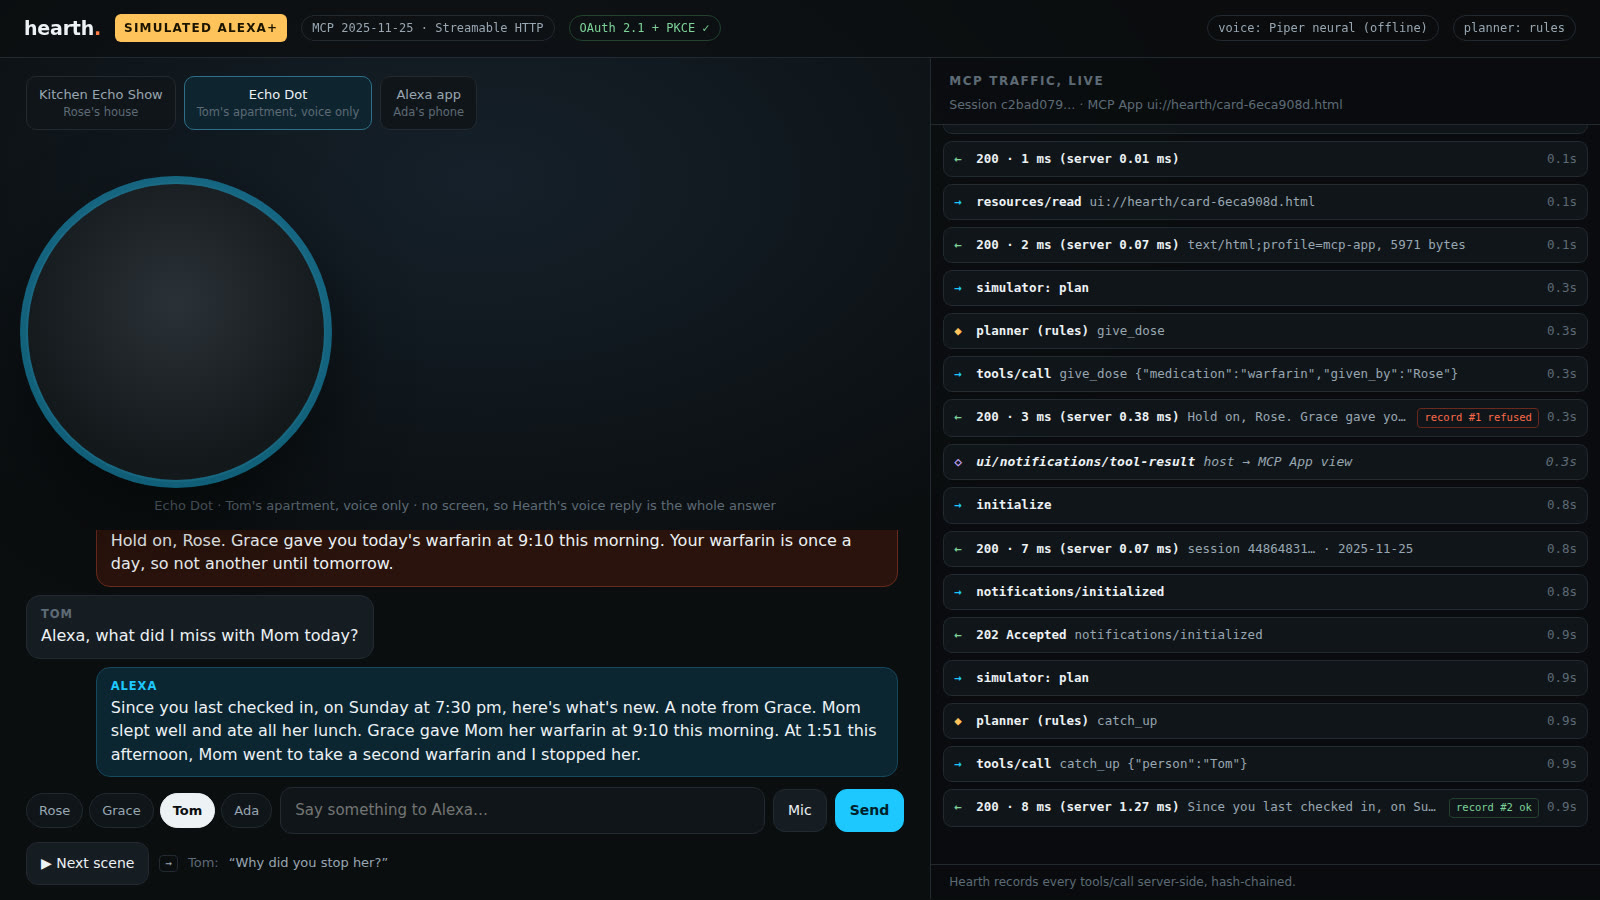
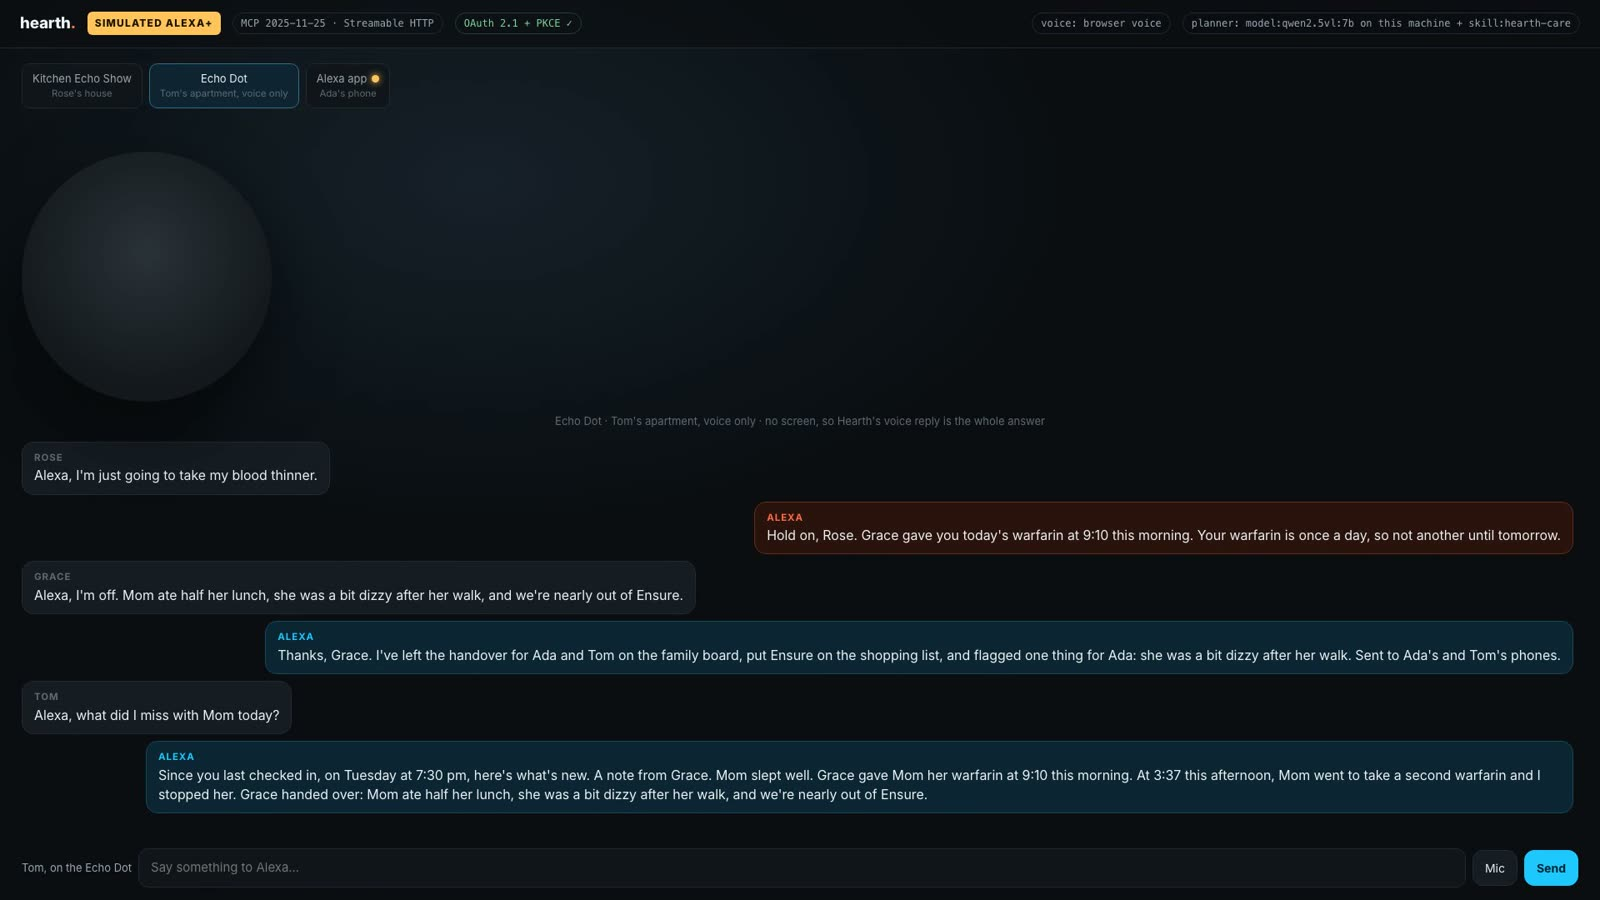
video: transcript and captions from each take, fresh images from take 4
film.py writes transcript.md and captions.srt; rough_cut.py maps the lines
onto the cut as hearth-demo.srt for the upload. The README images and the
transcript now show the current lines and the model planning. The old
offline audio (voice.py, hold-on-rose.m4a and .srt) is removed: its lines
were out of date and film.py replaces it.

diff --git a/demo/rough_cut.py b/demo/rough_cut.py
@@ -19,7 +19,7 @@ Inserts (real footage, any format ffmpeg reads; drop them in and run again):
   n-traffic.m4a, n-tech.m4a, n-close.m4a, n-oncam.m4a
                narration in a real voice (else: macOS `say`, voice Daniel)
 
-Writes <take>/hearth-demo.mp4 and <take>/cut.json (each segment, its source,
+Writes <take>/hearth-demo.mp4, hearth-demo.srt (captions for the upload) and <take>/cut.json (each segment, its source,
 its length, and whether it is still a placeholder). macOS only (`say`); needs
 ffmpeg and playwright.
 """
@@ -32,6 +32,7 @@ import sys
 from urllib.parse import urlencode
 
 HERE = pathlib.Path(__file__).resolve().parent
+sys.path.insert(0, str(HERE))
 W, H, FPS = 1920, 1080, 30
 ENC = ["-c:v", "libx264", "-preset", "medium", "-crf", "20", "-pix_fmt", "yuv420p",
        "-r", str(FPS), "-c:a", "aac", "-b:a", "160k", "-ar", "48000", "-ac", "2"]
@@ -185,6 +186,27 @@ class Cut:
                     "-map", a if narr else "0:a"]
         run(cmd + ENC + [str(out)])
         self.add(name, out, "sim-run.mp4", False)
+        if self.parts and self.parts[-1][1]["segment"] == name:
+            self.parts[-1][1]["take_span"] = [round(start, 3), round(end, 3)]
+
+    def captions(self, recs):
+        """hearth-demo.srt: every spoken line of the take, at its time in the cut."""
+        from film import _stamp
+        ev = json.loads((self.take / "timeline.json").read_text())["events"]
+        lines = [e for e in ev if e["kind"] == "line"]
+        out, at, n = [], 0.0, 0
+        for r in recs:
+            if "take_span" in r:
+                a, b = r["take_span"]
+                for e in lines:
+                    if a <= e["at"] < b:
+                        t = at + e["at"] - a
+                        end = min(at + r["seconds"], t + e["seconds"])
+                        n += 1
+                        out += [str(n), f"{_stamp(t, True)} --> {_stamp(end, True)}",
+                                f"{e['who']}: {e['text']}", ""]
+            at += r["seconds"]
+        (self.take / "hearth-demo.srt").write_text("\n".join(out))
 
     def finish(self) -> pathlib.Path:
         lst = self.work / "list.txt"
@@ -194,6 +216,7 @@ class Cut:
              "-i", str(lst), "-c", "copy", "-movflags", "+faststart", str(final)])
         recs = [r for _, r in self.parts]
         total = duration(final)
+        self.captions(recs)
         (self.take / "cut.json").write_text(json.dumps(
             {"total_seconds": round(total, 2), "segments": recs}, indent=1))
         return final

diff --git a/demo/film.py b/demo/film.py
@@ -13,6 +13,7 @@ next scene. Every answer is whatever Hearth returned on this run.
                          replaced by real people (the script says who)
   <out>/timeline.json    when each line starts in screen.webm, who said it, the text
   <out>/sim-run.mp4      the screen with every line mixed in at its time
+  <out>/transcript.md    who said what, when; captions.srt for the upload
 
     export HEARTH_TZ=<a zone where it is now mid-afternoon> HEARTH_ISSUER=http://localhost:8000
     export HEARTH_SIM_LLM_PROVIDER=openai HEARTH_SIM_LLM_BASE_URL=http://localhost:11434/v1
@@ -149,12 +150,41 @@ async def main(base: str, out: str, voices: str | None = None):
     with open(os.path.join(out, "timeline.json"), "w") as f:
         json.dump({"base": base, "events": events}, f, indent=1)
     mix(out, events)
+    write_transcript(out, events, planner)
     if errors:
         raise SystemExit(f"page errors: {errors}")
     for e in events:
         if e["kind"] == "line":
             print(f"{e['at']:7.2f}s {e['who']:5} {e['text'][:110]}")
     print(f"\n{out}/sim-run.mp4  ({planner})")
+
+
+def _stamp(t: float, srt=False) -> str:
+    m, sec = divmod(max(0.0, t), 60)
+    if srt:
+        h, m = divmod(int(m), 60)
+        return f"{h:02d}:{m:02d}:{int(sec):02d},{int((sec % 1) * 1000):03d}"
+    return f"{int(m)}:{sec:04.1f}"
+
+
+def write_transcript(out: str, events: list, planner: str):
+    """transcript.md (who said what, when) and captions.srt for the upload."""
+    lines = [e for e in events if e["kind"] == "line"]
+    t0 = next(e["at"] for e in events if e["kind"] == "ready")
+    md = ["# Hold on, Rose: the filmed afternoon", "",
+          "Recorded by `demo/film.py` on the simulated Alexa+ client "
+          f"(`/alexa?film=1`), {planner}. Every **Alexa** line is the text "
+          "Hearth's tools returned on this run, over the real MCP endpoint. "
+          "Times are from the start of the take.", ""]
+    md += [f"- `{_stamp(e['at'] - t0)}` **{e['who']}**: {e['text']}" for e in lines]
+    with open(os.path.join(out, "transcript.md"), "w") as f:
+        f.write("\n".join(md) + "\n")
+    srt = []
+    for i, e in enumerate(lines, 1):
+        srt += [str(i), f"{_stamp(e['at'], True)} --> {_stamp(e['at'] + e['seconds'], True)}",
+                f"{e['who']}: {e['text']}", ""]
+    with open(os.path.join(out, "captions.srt"), "w") as f:
+        f.write("\n".join(srt))
 
 
 def mix(out: str, events: list):

diff --git a/demo/transcript.md b/demo/transcript.md
@@ -1,22 +1,18 @@
-# Hold on, Rose
+# Hold on, Rose: the filmed afternoon
 
-The scenes from the simulated Alexa+ client, rendered offline by `demo/voice.py`. Every **Alexa** line is the text Hearth's tools returned for that request, over the real MCP endpoint. Voices: Piper, offline.
+Recorded by `demo/film.py` on the simulated Alexa+ client (`/alexa?film=1`), planner: model:qwen2.5vl:7b on this machine + skill:hearth-care. Every **Alexa** line is the text Hearth's tools returned on this run, over the real MCP endpoint. Times are from the start of the take.
 
-- `0:00.0` **Rose**: Alexa, I'm just going to take my blood thinner.
-- `0:03.2` **Alexa**: Hold on, Rose. Grace gave you today's warfarin at 9:10 this morning. Your warfarin is once a day, so not another until tomorrow.
-- `0:13.7` **Tom**: Alexa, what did I miss with Mom today?
-- `0:16.3` **Alexa**: Since you last checked in, on Sunday at 7:30 pm, here's what's new. A note from Grace. Mom slept well and ate all her lunch. Grace gave Mom her warfarin at 9:10 this morning. At 1:40 this afternoon, Mom went to take a second warfarin and I stopped her.
-- `0:35.8` **Tom**: Why did you stop her?
-- `0:37.3` **Alexa**: I stopped a second warfarin for Mom because Ada set it 12 days ago, to once a day. Grace gave Mom today's warfarin at 9:10 this morning.
-- `0:48.0` **Ada**: Alexa, Mom's cardiology moved to Thursday at 10. Sort it out.
-- `0:52.4` **Alexa**: Done. Mom's cardiology is now Thursday at 10:00 am. Tom is taking Mom, since Tom does Thursdays. I cancelled the old ride, booked a ride for 9:15 am, and told Tom and Grace on the family board.
-- `1:10.1` **Grace**: Alexa, we're nearly out of her warfarin. Reorder it.
-- `1:13.7` **Alexa**: Warfarin 5 mg, 30 tablets, $12.40 from the Hearth sandbox pharmacy, delivered tomorrow. Shall I place the order?
-- `1:23.2` **Grace**: Yes, go ahead.
-- `1:24.8` **Alexa**: Done. Warfarin 5 mg, 30 tablets is ordered, 12 dollars 40, arriving tomorrow. I've told the family.
-- `1:34.4` **Tom**: Alexa, can Mom have a coffee?
-- `1:36.5` **Alexa**: Mom's coffee stops at three. Ada set it 12 days ago, to three. Tom said six, but Ada has the say over what she eats and drinks.
-- `1:47.4` **Ada**: Mom finished the antibiotics.
-- `1:49.7` **Alexa**: Understood, the antibiotics are over. Ada's rule that Mom's alcohol is off limits no longer applies.
-- `1:58.2` **Ada**: Alexa, show me the record.
-- `2:00.4` **Alexa**: 9 calls on the record, 1 refused, and the chain is intact: nothing has been edited or removed.
+- `0:01.8` **Rose**: Alexa, I'm just going to take my blood thinner.
+- `0:06.9` **Alexa**: Hold on, Rose. Grace gave you today's warfarin at 9:10 this morning. Your warfarin is once a day, so not another until tomorrow.
+- `0:22.1` **Grace**: Alexa, I'm off. Mom ate half her lunch, she was a bit dizzy after her walk, and we're nearly out of Ensure.
+- `0:31.5` **Alexa**: Thanks, Grace. I've left the handover for Ada and Tom on the family board, put Ensure on the shopping list, and flagged one thing for Ada: she was a bit dizzy after her walk. Sent to Ada's and Tom's phones.
+- `0:44.4` **Tom**: Alexa, what did I miss with Mom today?
+- `0:48.5` **Alexa**: Since you last checked in, on Tuesday at 7:30 pm, here's what's new. A note from Grace. Mom slept well. Grace gave Mom her warfarin at 9:10 this morning. At 3:37 this afternoon, Mom went to take a second warfarin and I stopped her. Grace handed over: Mom ate half her lunch, she was a bit dizzy after her walk, and we're nearly out of Ensure.
+- `1:11.6` **Ada**: Alexa, Mom's cardiology moved to Thursday at 10. Sort it out.
+- `1:19.5` **Alexa**: Done. Mom's cardiology is now Thursday at 10:00 am. Tom is taking Mom, since Tom does Thursdays. I cancelled the old ride, booked a ride for 9:15 am, and left a note for Tom and Grace on the family board and sent it to Tom's phone.
+- `1:34.6` **Ada**: Alexa, order what's on the list.
+- `1:38.7` **Alexa**: Ensure Original, 24 bottles, $38.99 from the Hearth sandbox pharmacy, delivered tomorrow. Shall I place the order?
+- `1:50.2` **Ada**: Yes, go ahead.
+- `1:52.5` **Alexa**: Done. Ensure Original, 24 bottles is ordered, 38 dollars 99, arriving tomorrow. I've told the family.
+- `2:01.3` **Ada**: Alexa, show me the record.
+- `2:04.9` **Alexa**: 7 calls on the record, 1 refused, and it matches its signed checkpoint and the receipt this device kept: nothing up to call 5 has been changed or removed.
